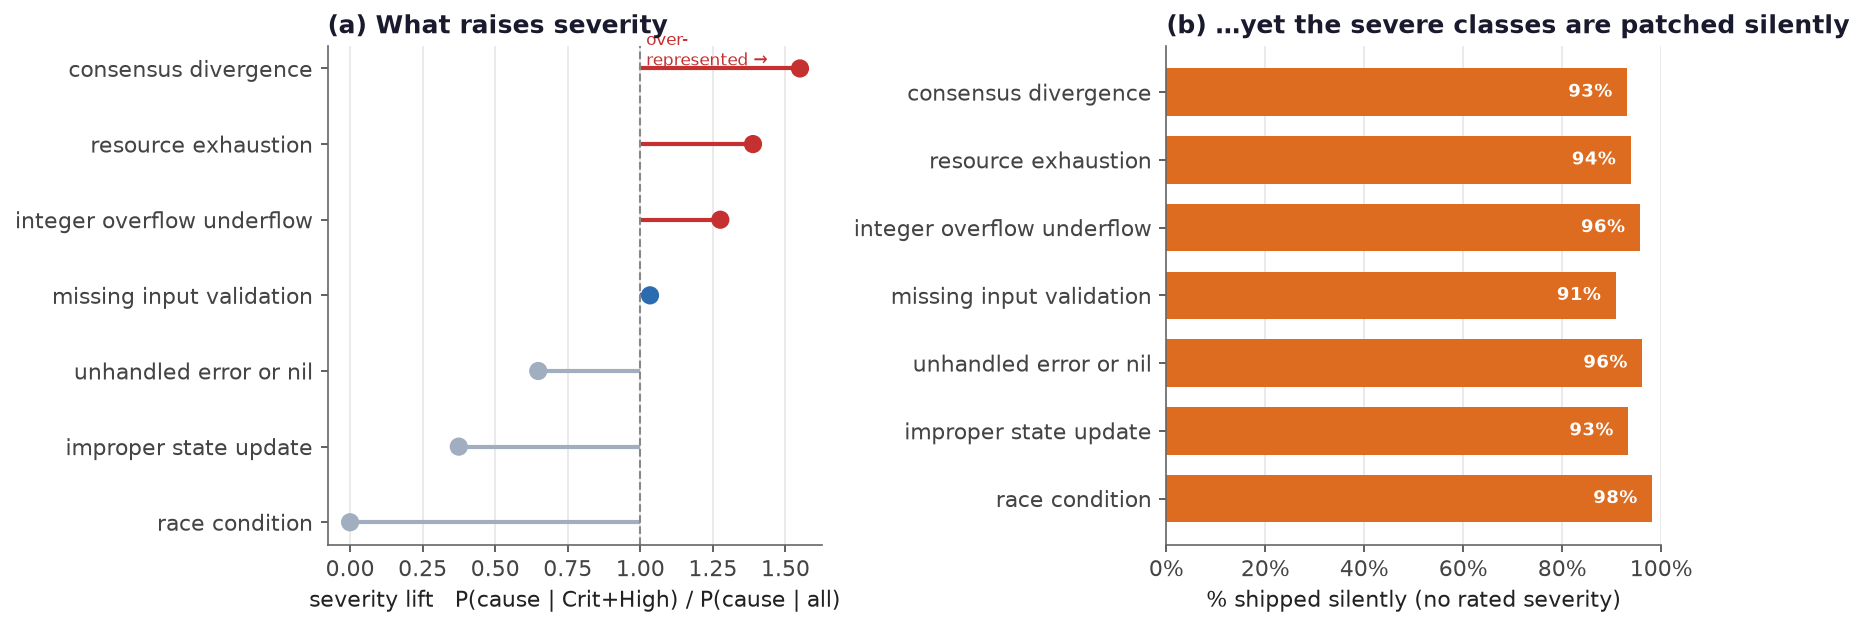
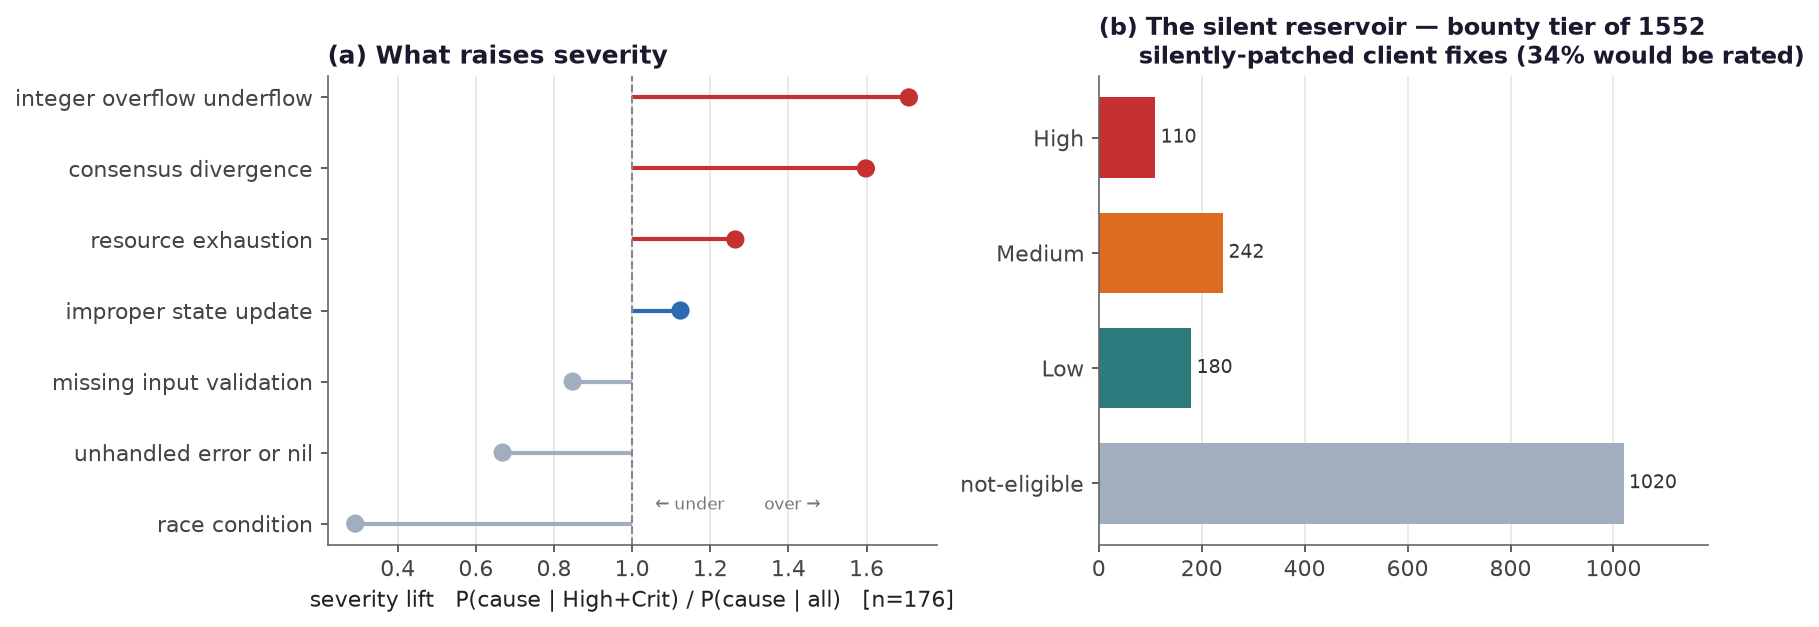
docs: update analysis with the expanded (estimated) severity — reservoir sized
Now that severity is assessed on 30% of rows (60 bounty-graded + 532 LLM-
estimated + upstream), the severity analysis is rebuilt on a robust n=176
High/Critical:
- fig7 recomputed — severity lift (integer_overflow x1.71, consensus_divergence
  x1.60, resource_exhaustion x1.26; race_condition x0.29) plus a new panel: the
  silent reservoir (of 1,552 silent client fixes, ~34%/532 carry a bounty tier —
  110 High / 242 Medium / 180 Low).
- analysis.md §7 and security_report.md §7 + abstract updated: ~110 silently-
  patched, never-graded fixes would rate High by the bounty's own definition, an
  order of magnitude beyond the 60 actually graded; severity_estimated /
  severity_source expose the would-be-rated slice.

diff --git a/scripts/make_figures.py b/scripts/make_figures.py
@@ -132,35 +132,38 @@ import os
 for f in sorted(os.listdir(FG)): print("  ",f, round(os.path.getsize(FG+"/"+f)/1024),"KB")
 
 # ---- FIG 7: what raises severity (security-researcher view) -----------------
-sev=d.severity.str.lower()
-hi=d[sev.isin(['critical','high'])]
+# combined bounty tier: real grade where present, else LLM estimate (n=675)
+se=d.severity_estimated.fillna("") if "severity_estimated" in d.columns else d.severity
+hi=d[se.isin(['Critical','High'])]
 causes=[c for c in d.root_cause.value_counts().head(8).index if c!='other']
-lift=[]; silent=[]
+lift=[]
 for rc in causes:
     p_all=(d.root_cause==rc).mean(); p_hi=(hi.root_cause==rc).mean()
     lift.append(p_hi/p_all if p_all else 0)
-    sub=d[d.root_cause==rc]
-    silent.append(100*(~sub.severity.str.lower().isin(['critical','high','medium','low'])).mean())
 order=np.argsort(lift)
-causes=[causes[i] for i in order]; lift=[lift[i] for i in order]; silent=[silent[i] for i in order]
-fig,(a1,a2)=plt.subplots(1,2,figsize=(11.5,4.3))
+causes=[causes[i] for i in order]; lift=[lift[i] for i in order]
+fig,(a1,a2)=plt.subplots(1,2,figsize=(11.6,4.3))
 y=np.arange(len(causes))
 cols=[RED if l>1.15 else (GRAY if l<0.85 else BLUE) for l in lift]
-a1.hlines(y,1,lift,color=cols,lw=2,zorder=1)
-a1.scatter(lift,y,color=cols,s=60,zorder=2)
+a1.hlines(y,1,lift,color=cols,lw=2,zorder=1); a1.scatter(lift,y,color=cols,s=60,zorder=2)
 a1.axvline(1,color="#888",lw=1,ls="--")
 a1.set_yticks(y); a1.set_yticklabels([c.replace('_',' ') for c in causes])
-a1.set_xlabel("severity lift   P(cause | Crit+High) / P(cause | all)")
+a1.set_xlabel(f"severity lift   P(cause | High+Crit) / P(cause | all)   [n={len(hi)}]")
 a1.set_title("(a) What raises severity",loc="left",fontsize=12,color=INK,fontweight="bold")
-a1.text(1.02,len(causes)-0.5,"over-\nrepresented →",color=RED,fontsize=8,va="top")
+a1.text(max(lift)*0.62,0.2,"← under        over →",color="#777",fontsize=8)
 a1.grid(axis="y",visible=False)
-a2.barh(y,silent,color=[ORANGE if s>85 else TEAL for s in silent],height=0.7)
-a2.set_yticks(y); a2.set_yticklabels([c.replace('_',' ') for c in causes])
-a2.set_xlabel("% shipped silently (no rated severity)")
-a2.xaxis.set_major_formatter(PercentFormatter()); a2.set_xlim(0,100)
-for yi,s in zip(y,silent): a2.text(s-3,yi,f"{s:.0f}%",va="center",ha="right",color="white",fontsize=8.5,fontweight="bold")
-a2.set_title("(b) …yet the severe classes are patched silently",loc="left",fontsize=12,color=INK,fontweight="bold")
-a2.grid(axis="y",visible=False)
+# (b) the silent reservoir: estimated bounty tier of the silently-patched fixes
+llm=d[d.severity_source=='llm-estimated'] if "severity_source" in d.columns else d.iloc[:0]
+res=llm.severity_estimated.value_counts().reindex(['High','Medium','Low','not-eligible']).fillna(0)
+colmap={'High':RED,'Medium':ORANGE,'Low':TEAL,'not-eligible':GRAY}
+yy=np.arange(len(res))[::-1]
+a2.barh(yy,res.values,color=[colmap[i] for i in res.index],height=0.7)
+a2.set_yticks(yy); a2.set_yticklabels([i for i in res.index])
+for yi,v in zip(yy,res.values): a2.text(v+10,yi,f"{int(v)}",va="center",fontsize=9,color="#333")
+a2.margins(x=0.16); a2.grid(axis="y",visible=False)
+nsev=int(res[['High','Medium','Low']].sum())
+a2.set_title(f"(b) The silent reservoir — bounty tier of {len(llm)}\n     silently-patched client fixes ({100*nsev/max(len(llm),1):.0f}% would be rated)",
+             loc="left",fontsize=11.5,color=INK,fontweight="bold")
 plt.tight_layout(); plt.savefig(f"{FG}/fig7_severity_drivers.png",bbox_inches="tight"); plt.close()
 print("fig7 written")
 

diff --git a/docs/analysis.md b/docs/analysis.md
@@ -114,37 +114,41 @@ domain**.
 
 ## 7. A security-researcher reading — what raises severity
 
-Only 143 rows carry a rated severity and 66 are Critical/High, so this is a small,
-biased sample (see the reporting-bias caveat below) — but the signal is sharp.
+Severity here is the **Ethereum Foundation bug-bounty** grade (network-scale
+impact × single-packet/tx reachability), not CVSS. Only **6.4%** of rows were
+graded by the bounty, so we estimate the rest with an LLM decomposition
+(`impact_type` / `reachability` / `blast_radius`) calibrated against the graded
+rows (~60% exact / ~80% within ±1 tier on real severe bugs; method:
+[`severity_labeling.md`](./severity_labeling.md)). Combining graded + estimated
+tiers, **675 rows (30%) now carry a bounty tier** (176 High/Critical), enough for
+a robust reading.
 
 ![Figure 7](figures/fig7_severity_drivers.png)
 
-**(a) Attacker-reachability is the severity driver.** Among Critical/High fixes,
-38% are triggered by `malformed_input` and the rest by `malicious_tx` /
-`malicious_p2p_message` — externally reachable, adversary-controlled paths. By
-root cause, three classes are *over-represented* in the high-severity slice:
-**consensus_divergence (lift ×1.55)**, **resource_exhaustion / DoS (×1.39)**, and
-**integer_overflow (×1.28)**. Strikingly, **`race_condition` has lift ≈ 0** — it
-is 10% of all fixes but essentially never rated Critical/High, because it
-typically needs local timing rather than a remote trigger. Severity here tracks
-*reachability × blast-radius* (chain split, node crash, fund-affecting
-arithmetic), not code-level bug class alone.
+**(a) Reachability × blast-radius is the severity driver** (Fig, left; n=176).
+Three root causes are *over-represented* in High/Critical: **integer_overflow
+(lift ×1.71)**, **consensus_divergence (×1.60)**, and **resource_exhaustion / DoS
+(×1.26)** — precisely the classes that map to the bounty's impact categories
+(invalid-ETH / chain split / network takedown). Conversely **`race_condition` has
+lift ≈ 0.29** and `unhandled_error/nil` ≈ 0.67: common bugs, but locally-triggered
+and low-blast-radius, so out of the "single-packet/tx, network-scale" severity
+model by definition. Severity tracks *what the bounty pays for*, not code-bug
+class alone.
 
-**(b) The severe classes are the ones most often patched silently — the central
-paradox.** Every root cause, including the severe ones, is shipped *silently*
-91–98% of the time: **consensus_divergence is 93% unrated, integer_overflow 96%,
-resource_exhaustion 94%.** Concretely, of **174 `consensus_divergence` fixes only
-12 are rated — 162 (93%) carry no severity at all**, despite consensus divergence
-being the single highest-severity-lift class. The rated-severity column therefore
-*understates* the severe population by roughly an order of magnitude.
+**(b) The silent reservoir — most severe fixes were never graded** (Fig, right).
+Of the **1,552 silently-patched client fixes, ~34% (532) carry a bounty-relevant
+tier when assessed** — **110 High, 242 Medium, 180 Low** — and the estimated-High
+ones are dominated by `liveness_dos` (89) and `chain_split` (21). Only 60 fixes
+in the whole corpus were actually bounty-graded, so the public severity record
+**understates the severe population by roughly an order of magnitude**; the
+`severity_estimated` / `severity_source` columns expose the would-be-rated slice
+explicitly (never overwriting the 60 ground-truth grades).
 
-**Reporting bias, not a severity map.** Geth accounts for **41% (27/66)** of all
-Critical/High rows — not because Geth has more severe bugs, but because it
-publishes GitHub Security Advisories while most clients patch silently. So the
-rated slice is a **publication artifact**: a client's presence in it measures its
-disclosure policy, not its security posture. And fix size does **not** separate
-severity (median 51 LOC high-severity vs 45 overall) — you cannot spot a critical
-bug by diff size.
+**Reporting bias, not a severity map.** Among the *graded* rows, Geth dominates —
+not because Geth is buggier, but because it publishes GitHub Security Advisories
+while most clients patch silently. The graded slice measures **disclosure policy,
+not security posture**. And fix size does **not** separate severity (median ~51
+LOC high vs 45 overall) — you cannot spot a critical bug by diff size.
 
 *Takeaways for a researcher.* (i) Prioritize by **attacker-reachability ×
 subsystem** (p2p, rpc, crypto, consensus state-transition) rather than by whether

diff --git a/docs/security_report.md b/docs/security_report.md
@@ -12,11 +12,13 @@ figures are regenerated by `scripts/make_figures.py`.*
 > reachability), the data yields a concrete map from *what pays* to *where to
 > look*: which bug classes realize a chain split, a node takedown, validator
 > slashing, or invalid-ETH creation, and in which subsystems they recur. We find
-> that **~94% of fixes shipped silently** (never graded by the bounty), that the
-> **severe classes are precisely the ones most often patched silently**, and that
-> because one specification is implemented eleven ways, **a fix in one client is a
-> ready-made variant lead for the other ten**. We close with a hunting playbook
-> and three case studies with real pre-/post-fix code.
+> that **~94% of fixes shipped silently** (never graded by the bounty); that,
+> estimating the bounty tier of those silent fixes, **≈110 would rate *High*** and
+> ~420 more Medium/Low — a severe population an order of magnitude larger than the
+> 60 that were actually graded; and that because one specification is implemented
+> eleven ways, **a fix in one client is a ready-made variant lead for the other
+> ten**. We close with a hunting playbook and three case studies with real
+> pre-/post-fix code.
 
 ## 1. Why this corpus, for a security researcher
 
@@ -158,13 +160,21 @@ one specification*.
 
 ![Figure — silent-fix majority](figures/fig1_silent_prevalence.png)
 
-Only **4.9%** of fixes carry a CVE/GHSA id and **6.4%** any rated severity;
-**~93.6% shipped silently.** Combined with §2, this reframes the silent majority
-not as low-value noise but as the **un-graded population**: fixes found by internal
-review or fuzzing and quietly shipped, which the bounty never scored. Fig 7
-(right) drives it home — every severe class is patched silently 91–98% of the
-time; of 174 `consensus_divergence` fixes, **only 12 are rated (162 = 93% carry no
-severity)**, despite consensus divergence being the highest-severity-lift class.
+Only **4.9%** of fixes carry a CVE/GHSA id and **6.4%** were graded by the bounty;
+**~93.6% shipped silently.** These are not low-value noise but the **un-graded
+population** — fixes found by internal review or fuzzing and quietly shipped, which
+the bounty never scored.
+
+**We can now size the reservoir.** Estimating the bounty tier of the silently-
+patched client fixes (decompose → map → calibrate; [`severity_labeling.md`](./severity_labeling.md))
+shows that **~34% (532 of 1,552) would carry a bounty-relevant severity — 110
+High, 242 Medium, 180 Low** (Fig 7, right). The estimated-High reservoir is
+dominated by `liveness_dos` (89) and `chain_split` (21): **≈110 silently-patched,
+never-graded fixes that the bounty's own definition would rate High.** Only 60
+fixes in the corpus were actually graded, so the public severity record
+**understates the severe population by roughly an order of magnitude** — and the
+`severity_estimated` / `severity_source` columns hand a researcher that
+would-be-High list directly.
 
 There is also a **reporting bias** worth internalising: Geth accounts for 41% of
 all Critical/High rows, not because Geth is buggier but because it *publishes